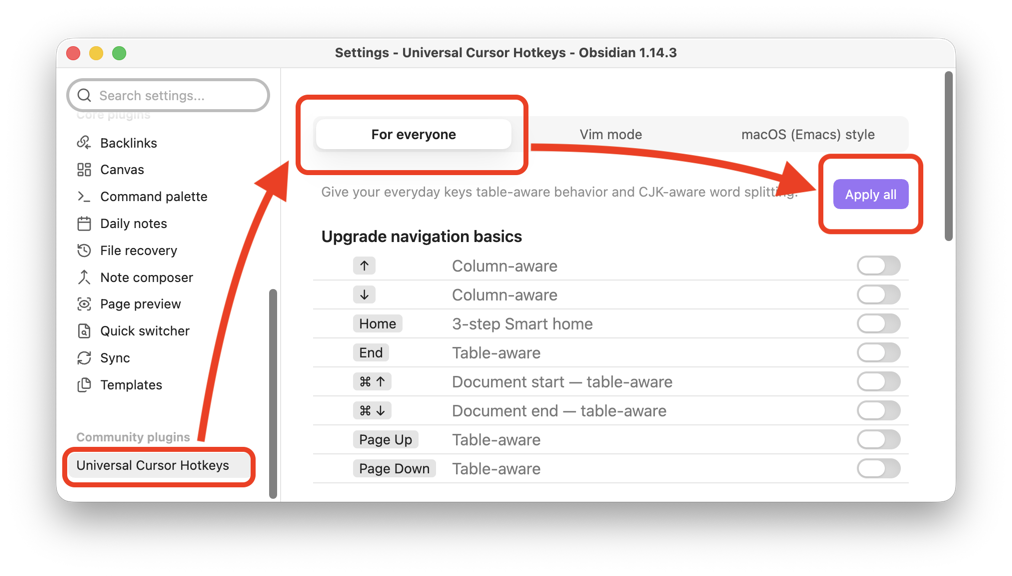
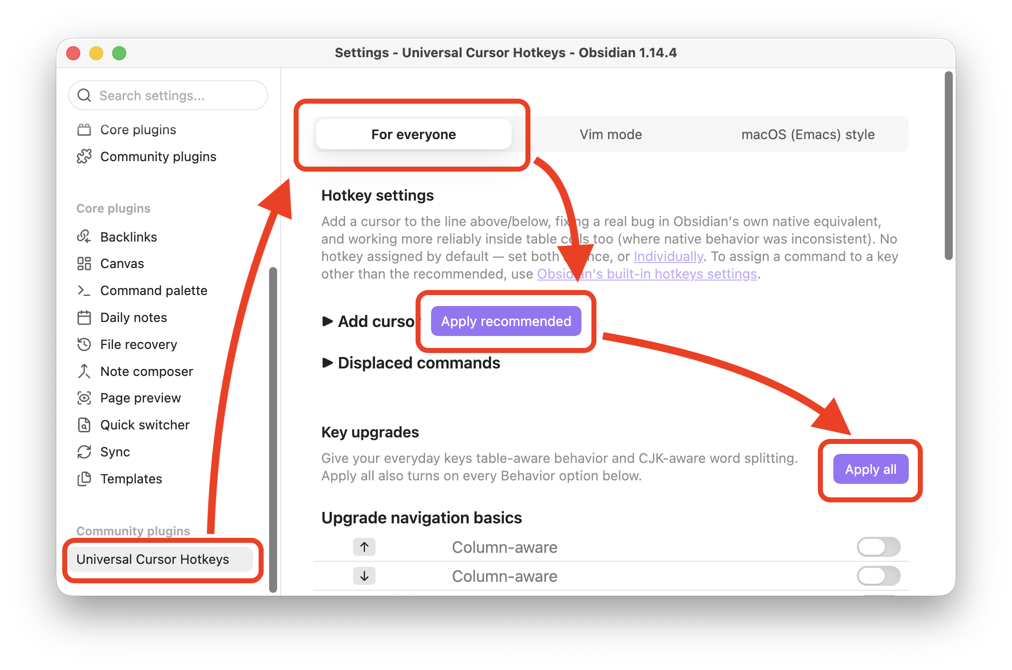
docs(website): Refresh 0.12.0 screenshots, host the hero GIF locally
- Replaced for-everyone-apply-all.png with a new 0.12.0 screenshot
  (retina-descaled) now that the For everyone tab has its own Hotkey
  settings section with Individually/Obsidian hotkeys links.
- Added macos-style-apply-all.png, a new screenshot for the macOS
  (Emacs) style tab's own Apply recommended flow (no prior image
  existed for this tab).
- Moved the homepage hero GIF off a GitHub user-attachments URL to
  website/static/img/universal-cursor-hotkeys-demo.gif (verified
  byte-identical via md5 before removing the GitHub dependency).
- Converted the hero image from a raw <img> HTML tag to Markdown
  image syntax: raw <img src="/img/...">  bypasses Docusaurus's
  baseUrl rewriting entirely (confirmed live — it rendered as a
  broken link), while ![]() syntax correctly goes through the asset
  pipeline (baseUrl-prefixed, content-hashed, auto-sized). The two
  Apply-recommended screenshots already used this syntax and were
  unaffected.
- JA content for all three index.md files round-tripped through the
  external staging vault, not edited directly in i18n/ja/.

Changed region(s): [[0.0613, 0.0625, 0.9496, 0.9062], [0.919, 0.0938, 0.9496, 0.125]]

diff --git a/website/i18n/ja/docusaurus-plugin-content-docs/current/macos-emacs-style/index.md b/website/i18n/ja/docusaurus-plugin-content-docs/current/macos-emacs-style/index.md
@@ -37,4 +37,6 @@ Windows ユーザーも macOS 風のカーソル移動を使いたい場合や E
 
 Obsidian の **設定** → コミュニティプラグイン **Universal Cursor Hotkeys** を選択 → 上部タブ **macOS (Emacs) style** を開いて、3 つのコマンドグループ (Cursor movement、Editing、Other hotkeys) それぞれで **Apply recommended** ボタンを押してください。3 クリックで完了します。
 
+![macOS (Emacs) style タブ、3 つのコマンドグループ全てで Apply recommended をハイライト表示](/img/macos-style-apply-all.png)
+
 一部のコマンドについては、純粋な Emacs 機能を再現するだけでなく Obsidian に最適化して Markdown ノート編集機能を強化しています。上の動作デモの「Smart home」や「Smart join」は純粋なテキストエディタではない Markdown エディタならではの機能となっています。設定の調整で純粋動作に変えることもできますので [設定](/macos-emacs-style/settings#behavior-options) をあわせてご覧ください。

diff --git a/website/i18n/ja/docusaurus-plugin-content-docs/current/index.md b/website/i18n/ja/docusaurus-plugin-content-docs/current/index.md
@@ -15,7 +15,7 @@ import ModeTabs from '@site/src/components/ModeTabs';
 
 普段使っている矢印キー・ `Home` / `End` キー・ `Page Up` / `Page Down` キーを、より Markdown に最適化し、ライブプレビューでの Markdown テーブルに対応させます。標準では正しく動作しなかった日本語テキストの単語分割もサポートします。Vim モードにも対応。加えて macOS 風のキーボードショートカット (Emacs キーバインド) のホットキー一式を提供します。
 
-<img width="688" height="387" alt="標準の Obsidian と Universal Cursor Hotkeys を比較したデモ: Markdown テーブルおよび CJK テキストでのカーソル移動" src="https://github.com/user-attachments/assets/b85426e8-e8be-451a-9766-fff410cb634e" />
+![標準の Obsidian と Universal Cursor Hotkeys を比較したデモ: Markdown テーブルおよび CJK テキストでのカーソル移動](/img/universal-cursor-hotkeys-demo.gif)
 
 ## 概要
 

diff --git a/website/docs/macos-emacs-style/index.md b/website/docs/macos-emacs-style/index.md
@@ -37,4 +37,6 @@ No hotkeys are assigned by default. For a minimal recommended hotkey set — cur
 
 Open **Settings → Universal Cursor Hotkeys → macOS (Emacs) style** and click **Apply recommended** for each of the three command groups — Cursor movement, Editing, and Other hotkeys. Three clicks and you're done.
 
+![The macOS (Emacs) style tab, with Apply recommended highlighted for all three command groups](/img/macos-style-apply-all.png)
+
 Some commands go beyond simply reproducing pure Emacs functionality — they're optimized for Obsidian and enhanced for Markdown note editing. **Smart home** and **Smart join** in the demos above are features unique to a Markdown editor, which a plain text editor wouldn't have. These can also be switched back to pure, unmodified behavior via settings, so check [Settings](/macos-emacs-style/settings#behavior-options) too.

diff --git a/website/docs/index.md b/website/docs/index.md
@@ -16,7 +16,7 @@ import ModeTabs from '@site/src/components/ModeTabs';
 
 We make the arrow keys, `Home`/`End`, and `Page Up`/`Page Down` keys you already use every day Markdown-aware and table-aware inside Live Preview. We also add CJK (Chinese/Japanese) word-boundary support — which doesn't work correctly out of the box. Vim mode gets the same treatment, and on top of that, we provide a full set of hotkeys for macOS-style keyboard shortcuts (Emacs keybindings).
 
-<img width="688" height="387" alt="Side-by-side demo: standard Obsidian vs. Universal Cursor Hotkeys navigating Markdown tables and CJK text" src="https://github.com/user-attachments/assets/b85426e8-e8be-451a-9766-fff410cb634e" />
+![Side-by-side demo: standard Obsidian vs. Universal Cursor Hotkeys navigating Markdown tables and CJK text](/img/universal-cursor-hotkeys-demo.gif)
 
 ## Overview
 

diff --git a/website/i18n/zh/docusaurus-plugin-content-docs/current/index.md b/website/i18n/zh/docusaurus-plugin-content-docs/current/index.md
@@ -15,7 +15,7 @@ import ModeTabs from '@site/src/components/ModeTabs';
 
 将你平时使用的方向键、`Home`/`End` 键、`Page Up`/`Page Down` 键进一步针对 Markdown 做优化，并让它们在实时预览的 Markdown 表格中也能正确工作。同时也支持默认情况下无法正确识别的中文分词。同样适配 Vim 模式。此外，还提供一整套 macOS 风格的键盘快捷键（Emacs 快捷键）。
 
-<img width="688" height="387" alt="标准 Obsidian 与 Universal Cursor Hotkeys 的对比演示：在 Markdown 表格与 CJK 文本中的光标移动" src="https://github.com/user-attachments/assets/b85426e8-e8be-451a-9766-fff410cb634e" />
+![标准 Obsidian 与 Universal Cursor Hotkeys 的对比演示：在 Markdown 表格与 CJK 文本中的光标移动](/img/universal-cursor-hotkeys-demo.gif)
 
 ## 概述
 

diff --git a/website/i18n/zh/docusaurus-plugin-content-docs/current/macos-emacs-style/index.md b/website/i18n/zh/docusaurus-plugin-content-docs/current/macos-emacs-style/index.md
@@ -37,4 +37,6 @@ mode: macos-emacs-style
 
 打开 Obsidian 的 **设置** → 选择第三方插件 **Universal Cursor Hotkeys** → 打开上方标签 **macOS (Emacs) style**，然后分别在 3 个命令组（Cursor movement、Editing、Other hotkeys）中点击 **Apply recommended** 按钮。3 次点击即可完成。
 
+![macOS (Emacs) style 标签，3 个命令组均高亮显示 Apply recommended 按钮](/img/macos-style-apply-all.png)
+
 部分命令不仅重现了纯粹的 Emacs 原生功能，还针对 Obsidian 进行了优化，强化了 Markdown 笔记的编辑体验。上面演示中的 Smart home 和 Smart join，就是 Markdown 编辑器（而非纯文本编辑器）才有的功能。你也可以通过调整设置改回纯粹的原始行为，详情请参阅 [设置](/macos-emacs-style/settings#behavior-options)。

diff --git a/website/i18n/ja/docusaurus-plugin-content-docs/current/for-everyone/index.md b/website/i18n/ja/docusaurus-plugin-content-docs/current/for-everyone/index.md
@@ -22,4 +22,4 @@ Obsidian の **設定** → コミュニティプラグイン **Universal Cursor
 
 **つづいては：** [コマンドリファレンス](/for-everyone/command-reference) | [キーのアップグレード](/for-everyone/key-upgrades) | [設定](/for-everyone/settings) | [制限事項](/for-everyone/limitations)
 
-![For everyone タブでの Apply all ボタン](/img/for-everyone-apply-all.png)
+![For everyone タブ、Apply recommended と Apply all をハイライト表示](/img/for-everyone-apply-all.png)

diff --git a/website/docs/for-everyone/index.md b/website/docs/for-everyone/index.md
@@ -18,4 +18,4 @@ Open **Settings → Universal Cursor Hotkeys → For everyone** and click **Appl
 
 **See also:** [Key Upgrades](/for-everyone/key-upgrades) | [Settings](/for-everyone/settings) | [Limitations](/for-everyone/limitations)
 
-![The Apply all button on the For everyone tab](/img/for-everyone-apply-all.png)
+![The For everyone tab, with Apply recommended and Apply all highlighted](/img/for-everyone-apply-all.png)

diff --git a/website/i18n/zh/docusaurus-plugin-content-docs/current/for-everyone/index.md b/website/i18n/zh/docusaurus-plugin-content-docs/current/for-everyone/index.md
@@ -18,4 +18,4 @@ mode: for-everyone
 
 **接下来：** [按键升级](/for-everyone/key-upgrades) | [设置](/for-everyone/settings) | [限制事项](/for-everyone/limitations)
 
-![For everyone 标签中的 Apply all 按钮](/img/for-everyone-apply-all.png)
+![For everyone 标签，高亮显示 Apply recommended 和 Apply all 按钮](/img/for-everyone-apply-all.png)
